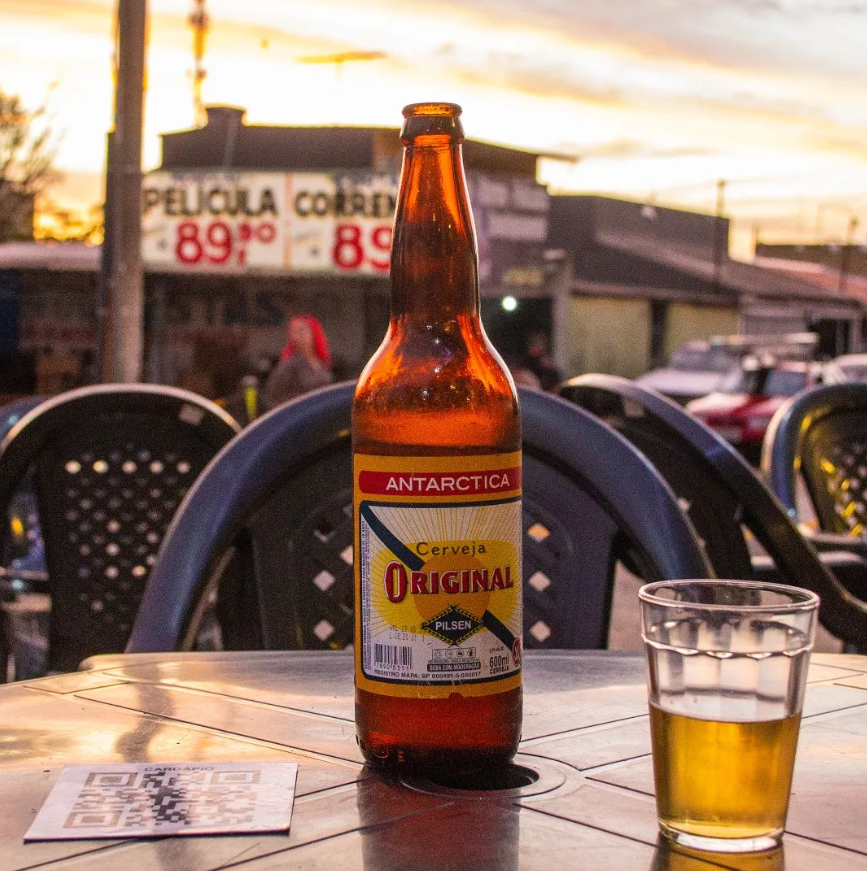
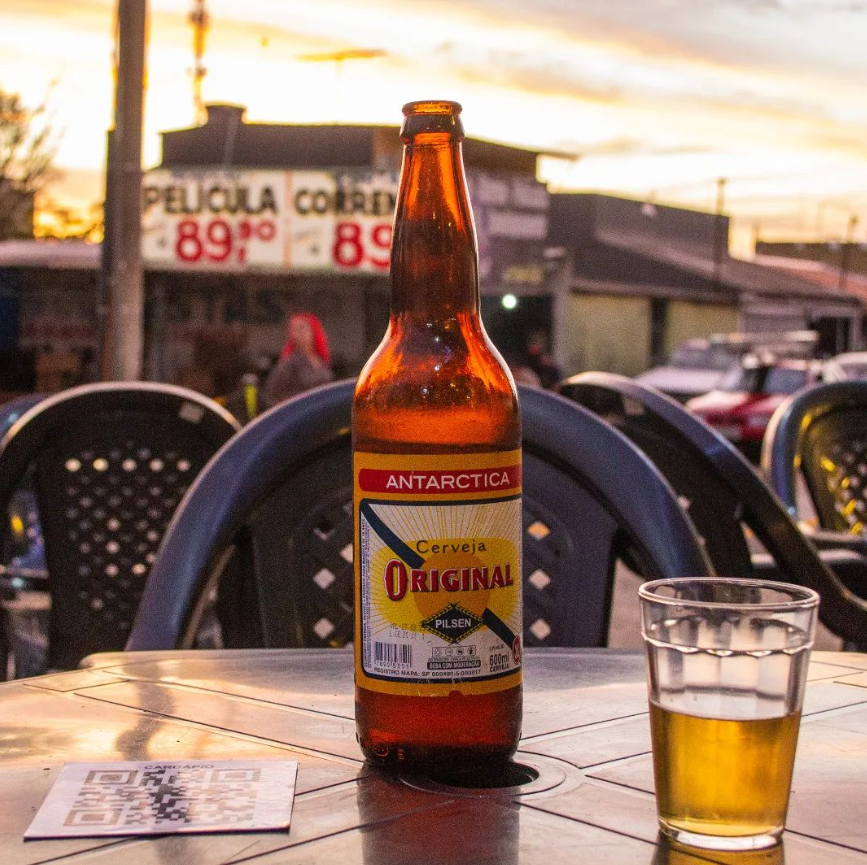
splash screen adicionada

diff --git a/index.css b/index.css
@@ -213,3 +213,52 @@
   max-width: 50px; /* Adjust the max-width of the logo */
   height: auto;
 }
+
+/* Add a CSS class for the splash screen */
+.splash-screen {
+  display: flex;
+  flex-direction: column;
+  align-items: center;
+  justify-content: center;
+  position: fixed;
+  top: 0;
+  left: 0;
+  width: 100%;
+  height: 100%;
+  background-color: black; /* Change to black background */
+  z-index: 9999; /* Ensure the splash screen appears on top */
+  opacity: 1; /* Initial opacity */
+  transition: opacity 0.5s ease-in-out; /* Add a transition for opacity change */
+}
+
+.splash-screen img {
+  max-width: 80%; /* Adjust the max-width as needed for your logo */
+  height: auto;
+}
+
+.splash-text {
+  color: white; /* Set the text color */
+  font-size: 18px; /* Adjust the font size */
+  margin-top: 10px; /* Adjust the margin to position the text below the logo */
+}
+
+/* Responsive adjustments */
+@media (max-width: 768px) {
+  .splash-screen img {
+    max-width: 90%; /* Adjust max-width for smaller screens */
+  }
+
+  .splash-text {
+    font-size: 16px; /* Adjust font size for smaller screens */
+  }
+}
+
+@media (max-width: 480px) {
+  .splash-screen img {
+    max-width: 100%; /* Adjust max-width for even smaller screens */
+  }
+
+  .splash-text {
+    font-size: 14px; /* Adjust font size for even smaller screens */
+  }
+}

diff --git a/app.js b/app.js
@@ -39,3 +39,20 @@ document.addEventListener('DOMContentLoaded', function () {
 function openInstagramProfile() {
     window.location.href = "https://www.instagram.com/baresquina22/";
 }
+
+
+document.addEventListener('DOMContentLoaded', function () {
+    // Show the splash screen
+    const splashScreen = document.getElementById('splash-screen');
+    splashScreen.style.display = 'flex';
+  
+    // Hide the splash screen with a fade-out effect after 0.5 seconds
+    setTimeout(() => {
+      splashScreen.style.opacity = '0'; // Set opacity to 0 for the fade-out effect
+      setTimeout(() => {
+        splashScreen.style.display = 'none'; // Hide the splash screen after the fade-out effect
+      }, 600);
+    }, 600); // Wait for 0.5 seconds before starting the fade-out
+  
+    // Rest of your existing event listeners and functionality
+  });

diff --git a/index.html b/index.html
@@ -17,8 +17,11 @@
 </head>
 
 <body>
+    <div id="splash-screen" class="splash-screen">
+        <img src="./assets/esquina_22-removebg-preview.png" alt="Logo">
+    </div>
     <div class="App">
-        <img class="background-image" src="./assets/bg.png" alt="Background Image">
+        <img class="background-image" src="./assets/300458179_1084065692234307_124153210233125572_n.webp" alt="Background Image">
         <div class="bar-background">
             <h1 class="cardapio-text"></h1>
 
